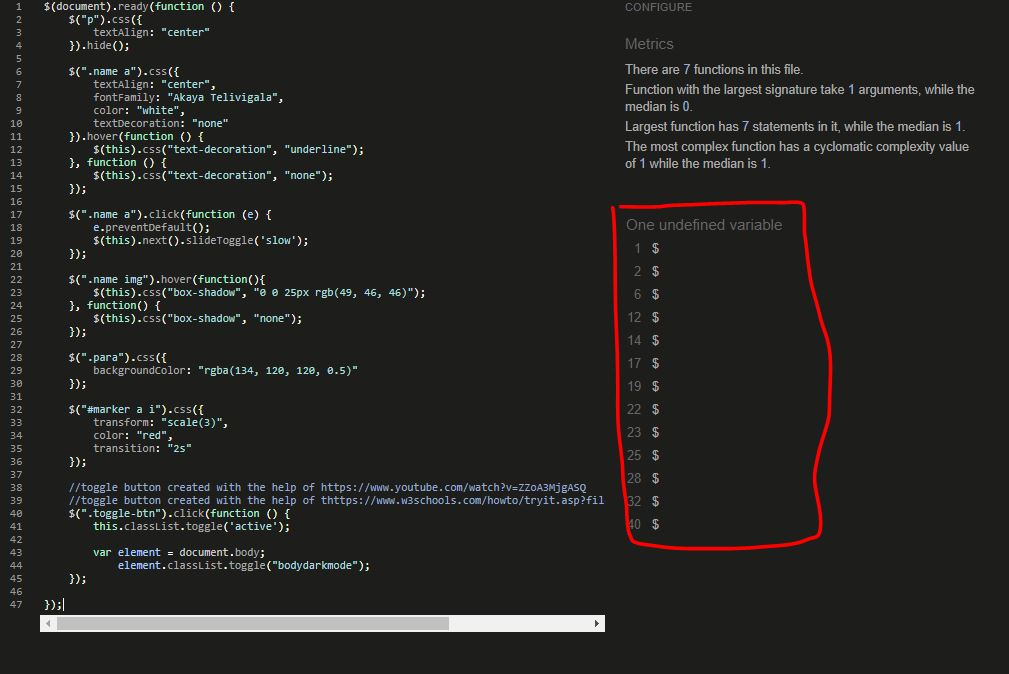
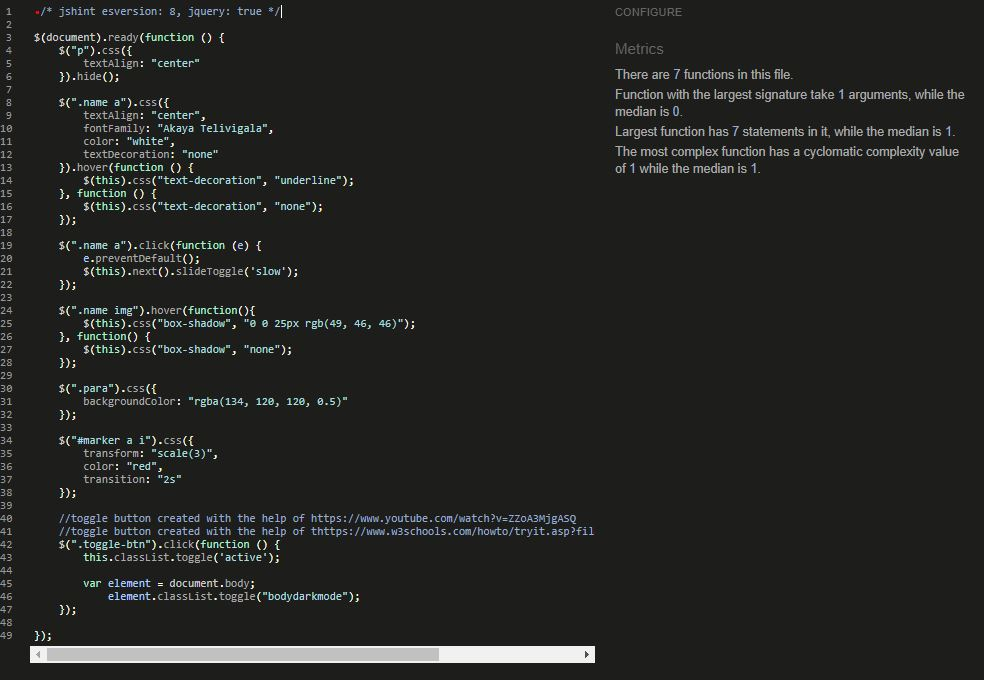
adding updated javascript validator images on corrections made and including the devices tested on

diff --git a/README.md b/README.md
@@ -107,6 +107,18 @@ For Mobile
 2. Once the user submits the information it is sent using EmailJS
 3. Oringianlly the footer did not display as intended. It has since been removed and completely redone.
 
+## Testing On Different Devices:
+1. 24 inche dell monitor
+2. 16 inche lenovo laptop
+3. Galaxy S5
+4. Pixel 2
+5. iPhone 6/7 & 8
+6. iPhone X 
+7. iPad
+8. Galaxy Fold
+
+
+
 ## Testing with the HTML, CSS and Javascript Validators
 
 Testing with the HTML/CSS validators showed a few minor errors that were then corrected.
@@ -115,18 +127,22 @@ Testing with the HTML/CSS validators showed a few minor errors that were then co
 
 ![CSS](assets/img/cssvalidator.JPG)
 
-    - The lightbox CSS was not passed in the validator as it was not written by me but is required when using the Lightbox API. I have attributed the credit for this to Lightbox.
+- The lightbox CSS was not passed in the validator as it was not written by me but is required when using the Lightbox API. I have attributed the credit for this to Lightbox.
 
 However testing with the JSHint validator highlighted issues that I couldnt change as the code was fufilling the functions it was intended for.
 
-    - The below issues were highlighted even though the code provides the correct functionality.
+- The below issues were highlighted even though the code provides the correct functionality.
+
 ![emailjs](assets/img/emailjs.JPG)
 
-    - The below two issues were highlighted when using the Leaflet API even though the functionality requires L, $ was needed to provide toggling for the buttons on the page.
+- The below two issues were highlighted when using the Leaflet API even though the functionality requires L, $ was needed to provide toggling for the buttons on the page.
+
 ![maps](assets/img/mapsjs.JPG)
 
-    - The below issue was highlighted for the hompage javascript, but the $ was needed to provide functionality with JQuery. The javascript functions as intended for the homepage.
+- The javascript for my hompage passed without any issues.
+
 ![hompage](assets/img/java.JPG)
+
 ## Credts:
 - Logo [pixabay](https://cdn.pixabay.com/photo/2020/07/17/12/25/compass-5413948_1280.png)
 
